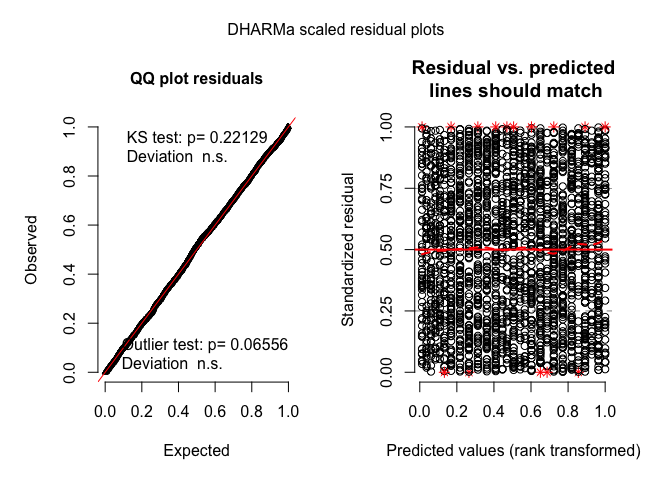
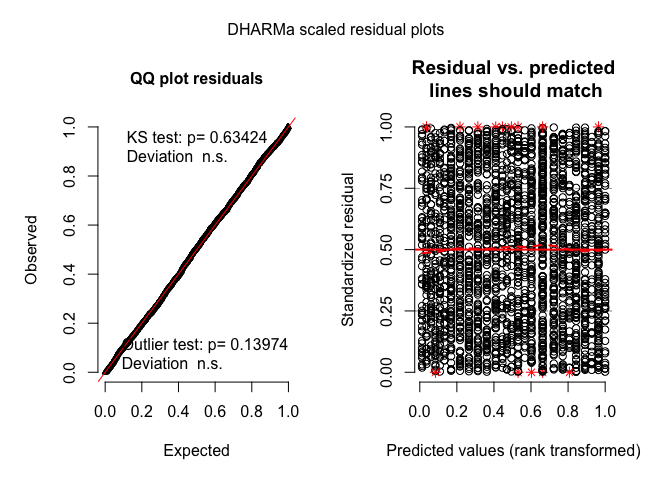
Update germination data

diff --git a/Germination/analysis_report.md b/Germination/analysis_report.md
@@ -23,7 +23,7 @@ load('germination_data.RData')
 Order varieties by median germination time in the control
 
 ``` r
-control = subset(germination, Treatment=='CON')
+control = subset(germination, Treatment=='Ambient')
 varietyOrder = aggregate(Day~Variety, data=control, FUN=median)
 
 # Order Varieties
@@ -61,10 +61,10 @@ pander(germin_tab,
        caption = "Numbers germinating & not germinating within observation period")
 ```
 
-|          | FALSE | TRUE |
-| :------: | :---: | :--: |
-| **CON**  |  440  | 820  |
-| **eCO2** |  433  | 827  |
+|               | FALSE | TRUE |
+| :-----------: | :---: | :--: |
+| **+CO2+Temp** |  433  | 827  |
+|  **Ambient**  |  440  | 820  |
 
 Numbers germinating & not germinating within observation period
 
@@ -108,35 +108,35 @@ summary(m)
     ## -2.0074  -0.9833   0.6039   0.7585   1.8420  
     ## 
     ## Coefficients:
-    ##                                     Estimate Std. Error z value Pr(>|z|)    
-    ## (Intercept)                          1.80152    0.26179   6.882 5.92e-12 ***
-    ## TreatmenteCO2                       -0.41522    0.34730  -1.196  0.23186    
-    ## VarietyAberchoice                   -0.51632    0.34298  -1.505  0.13222    
-    ## VarietyAspect                       -0.13083    0.36203  -0.361  0.71781    
-    ## VarietySolomon                      -0.25092    0.35532  -0.706  0.48008    
-    ## VarietyWild4                        -0.61193    0.40212  -1.522  0.12807    
-    ## VarietySemi-natural6                -0.19208    0.43420  -0.442  0.65822    
-    ## VarietyLilora                       -1.32609    0.32216  -4.116 3.85e-05 ***
-    ## VarietyWild7                        -0.70290    0.39676  -1.772  0.07646 .  
-    ## VarietyWild6                        -1.18248    0.37655  -3.140  0.00169 ** 
-    ## VarietyDunluce                      -1.53325    0.32011  -4.790 1.67e-06 ***
-    ## VarietyAbergain                     -1.80152    0.31916  -5.644 1.66e-08 ***
-    ## VarietyMoy                          -2.99110    0.40212  -7.438 1.02e-13 ***
-    ## VarietySemi-natural11               -3.29544    0.42409  -7.771 7.81e-15 ***
-    ## VarietySemi-natural7                -2.81312    0.39212  -7.174 7.28e-13 ***
-    ## TreatmenteCO2:VarietyAberchoice      0.31961    0.46508   0.687  0.49195    
-    ## TreatmenteCO2:VarietyAspect         -0.15685    0.47707  -0.329  0.74233    
-    ## TreatmenteCO2:VarietySolomon         0.47406    0.48820   0.971  0.33152    
-    ## TreatmenteCO2:VarietyWild4           0.96024    0.58694   1.636  0.10184    
-    ## TreatmenteCO2:VarietySemi-natural6   0.09098    0.58208   0.156  0.87579    
-    ## TreatmenteCO2:VarietyLilora          0.31066    0.43630   0.712  0.47645    
-    ## TreatmenteCO2:VarietyWild7           1.18841    0.59476   1.998  0.04570 *  
-    ## TreatmenteCO2:VarietyWild6           0.48933    0.51853   0.944  0.34533    
-    ## TreatmenteCO2:VarietyDunluce         0.55242    0.43506   1.270  0.20417    
-    ## TreatmenteCO2:VarietyAbergain        0.54875    0.43293   1.268  0.20497    
-    ## TreatmenteCO2:VarietyMoy             0.75751    0.54143   1.399  0.16179    
-    ## TreatmenteCO2:VarietySemi-natural11  0.41522    0.58588   0.709  0.47850    
-    ## TreatmenteCO2:VarietySemi-natural7   0.95140    0.52569   1.810  0.07032 .  
+    ##                                        Estimate Std. Error z value Pr(>|z|)    
+    ## (Intercept)                             1.38629    0.22822   6.074 1.24e-09 ***
+    ## TreatmentAmbient                        0.41522    0.34730   1.196 0.231861    
+    ## VarietyAberchoice                      -0.19671    0.31411  -0.626 0.531157    
+    ## VarietyAspect                          -0.28768    0.31069  -0.926 0.354473    
+    ## VarietySolomon                          0.22314    0.33479   0.667 0.505078    
+    ## VarietyWild4                            0.34831    0.42755   0.815 0.415273    
+    ## VarietySemi-natural6                   -0.10110    0.38766  -0.261 0.794260    
+    ## VarietyLilora                          -1.01543    0.29424  -3.451 0.000558 ***
+    ## VarietyWild7                            0.48551    0.44307   1.096 0.273178    
+    ## VarietyWild6                           -0.69315    0.35649  -1.944 0.051850 .  
+    ## VarietyDunluce                         -0.98083    0.29463  -3.329 0.000871 ***
+    ## VarietyAbergain                        -1.25276    0.29252  -4.283 1.85e-05 ***
+    ## VarietyMoy                             -2.23359    0.36256  -6.161 7.24e-10 ***
+    ## VarietySemi-natural11                  -2.88022    0.40423  -7.125 1.04e-12 ***
+    ## VarietySemi-natural7                   -1.86172    0.35013  -5.317 1.05e-07 ***
+    ## TreatmentAmbient:VarietyAberchoice     -0.31961    0.46508  -0.687 0.491951    
+    ## TreatmentAmbient:VarietyAspect          0.15685    0.47707   0.329 0.742325    
+    ## TreatmentAmbient:VarietySolomon        -0.47406    0.48820  -0.971 0.331525    
+    ## TreatmentAmbient:VarietyWild4          -0.96024    0.58694  -1.636 0.101840    
+    ## TreatmentAmbient:VarietySemi-natural6  -0.09098    0.58208  -0.156 0.875793    
+    ## TreatmentAmbient:VarietyLilora         -0.31066    0.43630  -0.712 0.476452    
+    ## TreatmentAmbient:VarietyWild7          -1.18841    0.59476  -1.998 0.045701 *  
+    ## TreatmentAmbient:VarietyWild6          -0.48933    0.51853  -0.944 0.345332    
+    ## TreatmentAmbient:VarietyDunluce        -0.55242    0.43506  -1.270 0.204166    
+    ## TreatmentAmbient:VarietyAbergain       -0.54875    0.43293  -1.268 0.204968    
+    ## TreatmentAmbient:VarietyMoy            -0.75751    0.54143  -1.399 0.161788    
+    ## TreatmentAmbient:VarietySemi-natural11 -0.41522    0.58588  -0.709 0.478499    
+    ## TreatmentAmbient:VarietySemi-natural7  -0.95140    0.52569  -1.810 0.070324 .  
     ## ---
     ## Signif. codes:  0 '***' 0.001 '**' 0.01 '*' 0.05 '.' 0.1 ' ' 1
     ## 
@@ -175,7 +175,7 @@ testResiduals(val)
     ##  One-sample Kolmogorov-Smirnov test
     ## 
     ## data:  simulationOutput$scaledResiduals
-    ## D = 0.020893, p-value = 0.2213
+    ## D = 0.014857, p-value = 0.6342
     ## alternative hypothesis: two-sided
     ## 
     ## 
@@ -185,7 +185,7 @@ testResiduals(val)
     ##  simulated
     ## 
     ## data:  simulationOutput
-    ## ratioObsSim = 1.0005, p-value = 0.964
+    ## ratioObsSim = 1.0006, p-value = 0.94
     ## alternative hypothesis: two.sided
     ## 
     ## 
@@ -194,8 +194,8 @@ testResiduals(val)
     ##  DHARMa outlier test based on exact binomial test
     ## 
     ## data:  simulationOutput
-    ## outLow = 5.000e+00, outHigh = 1.000e+01, nobs = 2.520e+03, freqH0 =
-    ## 1.996e-03, p-value = 0.06556
+    ## outLow = 5.000e+00, outHigh = 9.000e+00, nobs = 2.520e+03, freqH0 =
+    ## 1.996e-03, p-value = 0.1397
     ## alternative hypothesis: two.sided
 
     ## $uniformity
@@ -203,7 +203,7 @@ testResiduals(val)
     ##  One-sample Kolmogorov-Smirnov test
     ## 
     ## data:  simulationOutput$scaledResiduals
-    ## D = 0.020893, p-value = 0.2213
+    ## D = 0.014857, p-value = 0.6342
     ## alternative hypothesis: two-sided
     ## 
     ## 
@@ -213,7 +213,7 @@ testResiduals(val)
     ##  simulated
     ## 
     ## data:  simulationOutput
-    ## ratioObsSim = 1.0005, p-value = 0.964
+    ## ratioObsSim = 1.0006, p-value = 0.94
     ## alternative hypothesis: two.sided
     ## 
     ## 
@@ -222,8 +222,8 @@ testResiduals(val)
     ##  DHARMa outlier test based on exact binomial test
     ## 
     ## data:  simulationOutput
-    ## outLow = 5.000e+00, outHigh = 1.000e+01, nobs = 2.520e+03, freqH0 =
-    ## 1.996e-03, p-value = 0.06556
+    ## outLow = 5.000e+00, outHigh = 9.000e+00, nobs = 2.520e+03, freqH0 =
+    ## 1.996e-03, p-value = 0.1397
     ## alternative hypothesis: two.sided
 
 Logistic model looks valid. Fit null models and do some hypothesis
@@ -335,69 +335,69 @@ intervals
 pander(germ_fit)
 ```
 
-|                                            | records | n.max | n.start | events | median |
-| :----------------------------------------: | :-----: | :---: | :-----: | :----: | :----: |
-|     **Variety=Carraig, Treatment=CON**     |   120   |  120  |   120   |  103   |   15   |
-|    **Variety=Carraig, Treatment=eCO2**     |   120   |  120  |   120   |   96   |   10   |
-|   **Variety=Aberchoice, Treatment=CON**    |   120   |  120  |   120   |   94   |   16   |
-|   **Variety=Aberchoice, Treatment=eCO2**   |   120   |  120  |   120   |   92   |   13   |
-|     **Variety=Aspect, Treatment=CON**      |   120   |  120  |   120   |  101   |   17   |
-|     **Variety=Aspect, Treatment=eCO2**     |   120   |  120  |   120   |   90   |  14.5  |
-|     **Variety=Solomon, Treatment=CON**     |   120   |  120  |   120   |   99   |   17   |
-|    **Variety=Solomon, Treatment=eCO2**     |   120   |  120  |   120   |  100   |   12   |
-|      **Variety=Wild4, Treatment=CON**      |   60    |  60   |   60    |   46   |   17   |
-|     **Variety=Wild4, Treatment=eCO2**      |   60    |  60   |   60    |   51   |   14   |
-|  **Variety=Semi-natural6, Treatment=CON**  |   60    |  60   |   60    |   50   |   18   |
-| **Variety=Semi-natural6, Treatment=eCO2**  |   60    |  60   |   60    |   47   |   14   |
-|     **Variety=Lilora, Treatment=CON**      |   120   |  120  |   120   |   74   |   19   |
-|     **Variety=Lilora, Treatment=eCO2**     |   120   |  120  |   120   |   71   |  18.5  |
-|      **Variety=Wild7, Treatment=CON**      |   60    |  60   |   60    |   45   |   19   |
-|     **Variety=Wild7, Treatment=eCO2**      |   60    |  60   |   60    |   52   |   13   |
-|      **Variety=Wild6, Treatment=CON**      |   60    |  60   |   60    |   39   |   22   |
-|     **Variety=Wild6, Treatment=eCO2**      |   60    |  60   |   60    |   40   |   18   |
-|     **Variety=Dunluce, Treatment=CON**     |   120   |  120  |   120   |   68   |   27   |
-|    **Variety=Dunluce, Treatment=eCO2**     |   120   |  120  |   120   |   72   |   22   |
-|    **Variety=Abergain, Treatment=CON**     |   120   |  120  |   120   |   60   |   30   |
-|    **Variety=Abergain, Treatment=eCO2**    |   120   |  120  |   120   |   64   |  22.5  |
-|       **Variety=Moy, Treatment=CON**       |   60    |  60   |   60    |   14   |   NA   |
-|      **Variety=Moy, Treatment=eCO2**       |   60    |  60   |   60    |   18   |   NA   |
-| **Variety=Semi-natural11, Treatment=CON**  |   60    |  60   |   60    |   11   |   NA   |
-| **Variety=Semi-natural11, Treatment=eCO2** |   60    |  60   |   60    |   11   |   NA   |
-|  **Variety=Semi-natural7, Treatment=CON**  |   60    |  60   |   60    |   16   |   NA   |
-| **Variety=Semi-natural7, Treatment=eCO2**  |   60    |  60   |   60    |   23   |   NA   |
+|                                                 | records | n.max | n.start | events | median |
+| :---------------------------------------------: | :-----: | :---: | :-----: | :----: | :----: |
+|    **Variety=Carraig, Treatment=+CO2+Temp**     |   120   |  120  |   120   |   96   |   10   |
+|     **Variety=Carraig, Treatment=Ambient**      |   120   |  120  |   120   |  103   |   15   |
+|   **Variety=Aberchoice, Treatment=+CO2+Temp**   |   120   |  120  |   120   |   92   |   13   |
+|    **Variety=Aberchoice, Treatment=Ambient**    |   120   |  120  |   120   |   94   |   16   |
+|     **Variety=Aspect, Treatment=+CO2+Temp**     |   120   |  120  |   120   |   90   |  14.5  |
+|      **Variety=Aspect, Treatment=Ambient**      |   120   |  120  |   120   |  101   |   17   |
+|    **Variety=Solomon, Treatment=+CO2+Temp**     |   120   |  120  |   120   |  100   |   12   |
+|     **Variety=Solomon, Treatment=Ambient**      |   120   |  120  |   120   |   99   |   17   |
+|     **Variety=Wild4, Treatment=+CO2+Temp**      |   60    |  60   |   60    |   51   |   14   |
+|      **Variety=Wild4, Treatment=Ambient**       |   60    |  60   |   60    |   46   |   17   |
+| **Variety=Semi-natural6, Treatment=+CO2+Temp**  |   60    |  60   |   60    |   47   |   14   |
+|  **Variety=Semi-natural6, Treatment=Ambient**   |   60    |  60   |   60    |   50   |   18   |
+|     **Variety=Lilora, Treatment=+CO2+Temp**     |   120   |  120  |   120   |   71   |  18.5  |
+|      **Variety=Lilora, Treatment=Ambient**      |   120   |  120  |   120   |   74   |   19   |
+|     **Variety=Wild7, Treatment=+CO2+Temp**      |   60    |  60   |   60    |   52   |   13   |
+|      **Variety=Wild7, Treatment=Ambient**       |   60    |  60   |   60    |   45   |   19   |
+|     **Variety=Wild6, Treatment=+CO2+Temp**      |   60    |  60   |   60    |   40   |   18   |
+|      **Variety=Wild6, Treatment=Ambient**       |   60    |  60   |   60    |   39   |   22   |
+|    **Variety=Dunluce, Treatment=+CO2+Temp**     |   120   |  120  |   120   |   72   |   22   |
+|     **Variety=Dunluce, Treatment=Ambient**      |   120   |  120  |   120   |   68   |   27   |
+|    **Variety=Abergain, Treatment=+CO2+Temp**    |   120   |  120  |   120   |   64   |  22.5  |
+|     **Variety=Abergain, Treatment=Ambient**     |   120   |  120  |   120   |   60   |   30   |
+|      **Variety=Moy, Treatment=+CO2+Temp**       |   60    |  60   |   60    |   18   |   NA   |
+|       **Variety=Moy, Treatment=Ambient**        |   60    |  60   |   60    |   14   |   NA   |
+| **Variety=Semi-natural11, Treatment=+CO2+Temp** |   60    |  60   |   60    |   11   |   NA   |
+|  **Variety=Semi-natural11, Treatment=Ambient**  |   60    |  60   |   60    |   11   |   NA   |
+| **Variety=Semi-natural7, Treatment=+CO2+Temp**  |   60    |  60   |   60    |   23   |   NA   |
+|  **Variety=Semi-natural7, Treatment=Ambient**   |   60    |  60   |   60    |   16   |   NA   |
 
 Table continues below
 
-|                                            | 0.95LCL | 0.95UCL |
-| :----------------------------------------: | :-----: | :-----: |
-|     **Variety=Carraig, Treatment=CON**     |   14    |   15    |
-|    **Variety=Carraig, Treatment=eCO2**     |   10    |   13    |
-|   **Variety=Aberchoice, Treatment=CON**    |   15    |   17    |
-|   **Variety=Aberchoice, Treatment=eCO2**   |   12    |   15    |
-|     **Variety=Aspect, Treatment=CON**      |   17    |   18    |
-|     **Variety=Aspect, Treatment=eCO2**     |   13    |   17    |
-|     **Variety=Solomon, Treatment=CON**     |   16    |   18    |
-|    **Variety=Solomon, Treatment=eCO2**     |   11    |   13    |
-|      **Variety=Wild4, Treatment=CON**      |   16    |   19    |
-|     **Variety=Wild4, Treatment=eCO2**      |   13    |   15    |
-|  **Variety=Semi-natural6, Treatment=CON**  |   17    |   19    |
-| **Variety=Semi-natural6, Treatment=eCO2**  |   13    |   17    |
-|     **Variety=Lilora, Treatment=CON**      |   16    |   26    |
-|     **Variety=Lilora, Treatment=eCO2**     |   15    |   NA    |
-|      **Variety=Wild7, Treatment=CON**      |   18    |   21    |
-|     **Variety=Wild7, Treatment=eCO2**      |   13    |   16    |
-|      **Variety=Wild6, Treatment=CON**      |   19    |   30    |
-|     **Variety=Wild6, Treatment=eCO2**      |   17    |   26    |
-|     **Variety=Dunluce, Treatment=CON**     |   24    |   NA    |
-|    **Variety=Dunluce, Treatment=eCO2**     |   19    |   29    |
-|    **Variety=Abergain, Treatment=CON**     |   25    |   NA    |
-|    **Variety=Abergain, Treatment=eCO2**    |   18    |   NA    |
-|       **Variety=Moy, Treatment=CON**       |   NA    |   NA    |
-|      **Variety=Moy, Treatment=eCO2**       |   NA    |   NA    |
-| **Variety=Semi-natural11, Treatment=CON**  |   NA    |   NA    |
-| **Variety=Semi-natural11, Treatment=eCO2** |   NA    |   NA    |
-|  **Variety=Semi-natural7, Treatment=CON**  |   NA    |   NA    |
-| **Variety=Semi-natural7, Treatment=eCO2**  |   NA    |   NA    |
+|                                                 | 0.95LCL | 0.95UCL |
+| :---------------------------------------------: | :-----: | :-----: |
+|    **Variety=Carraig, Treatment=+CO2+Temp**     |   10    |   13    |
+|     **Variety=Carraig, Treatment=Ambient**      |   14    |   15    |
+|   **Variety=Aberchoice, Treatment=+CO2+Temp**   |   12    |   15    |
+|    **Variety=Aberchoice, Treatment=Ambient**    |   15    |   17    |
+|     **Variety=Aspect, Treatment=+CO2+Temp**     |   13    |   17    |
+|      **Variety=Aspect, Treatment=Ambient**      |   17    |   18    |
+|    **Variety=Solomon, Treatment=+CO2+Temp**     |   11    |   13    |
+|     **Variety=Solomon, Treatment=Ambient**      |   16    |   18    |
+|     **Variety=Wild4, Treatment=+CO2+Temp**      |   13    |   15    |
+|      **Variety=Wild4, Treatment=Ambient**       |   16    |   19    |
+| **Variety=Semi-natural6, Treatment=+CO2+Temp**  |   13    |   17    |
+|  **Variety=Semi-natural6, Treatment=Ambient**   |   17    |   19    |
+|     **Variety=Lilora, Treatment=+CO2+Temp**     |   15    |   NA    |
+|      **Variety=Lilora, Treatment=Ambient**      |   16    |   26    |
+|     **Variety=Wild7, Treatment=+CO2+Temp**      |   13    |   16    |
+|      **Variety=Wild7, Treatment=Ambient**       |   18    |   21    |
+|     **Variety=Wild6, Treatment=+CO2+Temp**      |   17    |   26    |
+|      **Variety=Wild6, Treatment=Ambient**       |   19    |   30    |
+|    **Variety=Dunluce, Treatment=+CO2+Temp**     |   19    |   29    |
+|     **Variety=Dunluce, Treatment=Ambient**      |   24    |   NA    |
+|    **Variety=Abergain, Treatment=+CO2+Temp**    |   18    |   NA    |
+|     **Variety=Abergain, Treatment=Ambient**     |   25    |   NA    |
+|      **Variety=Moy, Treatment=+CO2+Temp**       |   NA    |   NA    |
+|       **Variety=Moy, Treatment=Ambient**        |   NA    |   NA    |
+| **Variety=Semi-natural11, Treatment=+CO2+Temp** |   NA    |   NA    |
+|  **Variety=Semi-natural11, Treatment=Ambient**  |   NA    |   NA    |
+| **Variety=Semi-natural7, Treatment=+CO2+Temp**  |   NA    |   NA    |
+|  **Variety=Semi-natural7, Treatment=Ambient**   |   NA    |   NA    |
 
 ### Look at survival curves, averaging over varieties
 
@@ -414,10 +414,17 @@ Display
 pander(germ_fit_treatment)
 ```
 
-|                    | records | n.max | n.start | events | median | 0.95LCL | 0.95UCL |
-| :----------------: | :-----: | :---: | :-----: | :----: | :----: | :-----: | :-----: |
-| **Treatment=CON**  |  1260   | 1260  |  1260   |  820   |   19   |   19    |   21    |
-| **Treatment=eCO2** |  1260   | 1260  |  1260   |  827   |   17   |   16    |   17    |
+|                         | records | n.max | n.start | events | median |
+| :---------------------: | :-----: | :---: | :-----: | :----: | :----: |
+| **Treatment=+CO2+Temp** |  1260   | 1260  |  1260   |  827   |   17   |
+|  **Treatment=Ambient**  |  1260   | 1260  |  1260   |  820   |   19   |
+
+Table continues below
+
+|                         | 0.95LCL | 0.95UCL |
+| :---------------------: | :-----: | :-----: |
+| **Treatment=+CO2+Temp** |   16    |   17    |
+|  **Treatment=Ambient**  |   19    |   21    |
 
 Plot survival curves for Treatments (averaging across varieties)
 ![](analysis_report_files/figure-gfm/unnamed-chunk-24-1.png)<!-- -->
@@ -432,10 +439,10 @@ pander(survdiff(Surv(Day, germinated) ~ Treatment,
          data=germination))
 ```
 
-|                    |  N   | Observed | Expected | (O-E)^2/E | (O-E)^2/V |
-| :----------------: | :--: | :------: | :------: | :-------: | :-------: |
-| **Treatment=CON**  | 1260 |   820    |  906.8   |   8.315   |   19.86   |
-| **Treatment=eCO2** | 1260 |   827    |  740.2   |   10.19   |   19.86   |
+|                         |  N   | Observed | Expected | (O-E)^2/E | (O-E)^2/V |
+| :---------------------: | :--: | :------: | :------: | :-------: | :-------: |
+| **Treatment=+CO2+Temp** | 1260 |   827    |  740.2   |   10.19   |   19.86   |
+|  **Treatment=Ambient**  | 1260 |   820    |  906.8   |   8.315   |   19.86   |
 
 Call: Surv(Day, germinated) \~ Treatment Chisq = 19.864297 on 1 degrees
 of freedom, p = 0.000008
@@ -514,48 +521,3 @@ Same message. Looks like proportional hazard decreases over time for the
 treatment effect
 
 Need to find time varying version of Cox model.
-
-### Effect of variety
-
-Use Cox PH model on data from the control
-
-``` r
-# Fit the full model
-coxph.fit_full <- coxph(Surv(Day, germinated) ~ Variety, 
-                        data=subset(germination, Treatment=='CON'), 
-                        method="breslow")  # Could use efron
-
-# Fit null model testing for Variety on control data
-coxph.fit_null <- coxph(Surv(Day, germinated) ~ 1, 
-                         data=subset(germination, Treatment=='CON'), 
-                         method="breslow")  # Could use efron
-
-# Perform hypothesis test
-anova(coxph.fit_full, coxph.fit_null, test='ChiSq')
-```
-
-    ## Analysis of Deviance Table
-    ##  Cox model: response is  Surv(Day, germinated)
-    ##  Model 1: ~ Variety
-    ##  Model 2: ~ 1
-    ##    loglik  Chisq Df P(>|Chi|)    
-    ## 1 -5378.2                        
-    ## 2 -5527.9 299.32 13 < 2.2e-16 ***
-    ## ---
-    ## Signif. codes:  0 '***' 0.001 '**' 0.01 '*' 0.05 '.' 0.1 ' ' 1
-
-Strong effect of Variety on germination. Plot the hazard ratio for the
-model with main effect variety
-
-    ## Warning: Removed 1 rows containing missing values (geom_errorbar).
-
-![](analysis_report_files/figure-gfm/unnamed-chunk-33-1.png)<!-- -->
-
-``` r
-survfit(coxph.fit_full)
-```
-
-    ## Call: survfit(formula = coxph.fit_full)
-    ## 
-    ##       n  events  median 0.95LCL 0.95UCL 
-    ##    1260     820      21      19      22
